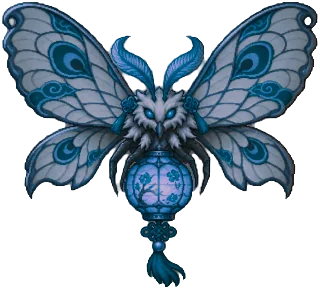
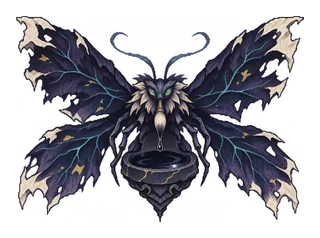
Add reviewed paper effigy, ink moth, and shrine art

diff --git a/docs/dev-log/2026-11-23-ART-002.md b/docs/dev-log/2026-11-23-ART-002.md
@@ -1,0 +1,73 @@
+# ART-002 纸人童、墨蛾和灯神龛
+
+2026-11-23 · 制作、导入与交付 Codex · 独立画审 Agent · 起点 `4a4b245`
+
+| 资源 | 原图 | 返工与复验 |
+| --- | --- | --- |
+| 纸人童 | [paper-doll.png](../../v2/art/paper-doll.png) | 初稿刀刃贴在环状纸拳上。第一次修改明确刃根与拇指的位置，复审发现左拳仍少一道折线。最终两侧都能数出四个卷指面和单独的拇指。 |
+| 墨蛾 | [ink-moth.png](../../v2/art/ink-moth.png) | 两张早稿带不透明渐变底，重新按独立透明精灵生成。竖屏第一次复验轮廓明显小于纸灯蛾，导出前收掉多余的透明空边，再补统一安全边。 |
+| 灯神龛 | [event-shrine.png](../../v2/art/event-shrine.png) | 木龛初稿只有破红带。补贴柱旧纸和残墨后，实机发现龛脚像悬空，又补灰青石墙边与托沿。 |
+
+- 三张 PNG 最终稿与压缩 WebP 进同一个提交。美术审计据 [导出清单](../../v2/art/exports.json) 中母图与 WebP 哈希将三件标为 `ok`。
+- `npm run assets -- paper-doll ink-moth event-shrine` 后运行 `node scripts/art-audit.mjs`。墨蛾的裁边只用于运行导出，母图保留。
+- `npm test` 的 52 项用例全部通过，`npm run build:offline` 生成 4.72 MB 单页。三种指定遭遇均完成浏览器截图，六次取样没有页面错误。
+- 回归在独立工作树执行。目标是实际资源加载、落点与 HUD 遮挡，玩法数值和事件条件沿用远端。UI-001、GAME-001 已由 Claude 在台账认领。
+- [独立画审和实机图](media/ART-002/独立画审.md) 使用指定遭遇检查画面，覆盖桌面和触屏模拟。实体移动端与自然刷新的出现频率未验证。
+
+## 生成提示
+
+使用内置 ImageGen。以下为创建与返工的提示原文。
+
+### paper-doll
+
+```text
+A single transparent full-body enemy sprite for an original dark Chinese zhiguai wuxia pixel art dungeon crawler. A small handmade supernatural paper effigy, unmistakably an inanimate funerary paper puppet brought to life, floats with feet slightly apart, Qixi cut-paper workshop: white mulberry paper face, painted ink-dot eyes, stiff painted crescent mouth, two circular cinnabar blush dots. Crimson paper jacket and short trousers, folded rigid faceted silhouette and scalloped punched paper cuffs. A busted patch at one elbow visibly exposes two thin brown bamboo laths holding the puppet body together. Both small mitten-paper hands clasp simple flat red folded paper blade wedges, point these safely outward (not aimed at a real person). Small origami shoes, subtle crooked paper braid. Compact straight-on first-person encounter camera, upper-left warm lantern edge light, dark teal shadows; readable distinct outline at 100 px. Premium crisp 32-bit game pixel art, hand-placed stair-step clusters and paper grain only inside shapes, matte. Float independently, entire lantern-red miniature effigy and both paper blades visible, 8 percent alpha clearance in every direction. Transparent RGBA background, no scenery, no platform, no text, no lettering, no captions, no human flesh, no gore, no extra limbs.
+```
+
+### ink-moth
+
+```text
+Single full isolated game pixel-art monster on transparent alpha for an original Chinese dark-fantasy dungeon crawler. A giant ink moth facing directly forward, all four spread wings must read as ink-soaked xuan paper, with large almost-black ink washes and controlled jagged torn fiber tips. Rich layered deep indigo, charcoal and wet teal crackle veining, rare flecks of antique gold and muted pale paper on rim; absolutely no orange or lamp frames. Abdomen is an integrated small heavy dark ceramic inkstone with concave bowl, hard blue-gray shell and dark ink at its base. A slender pointed ink-brush mouthpart with one heavy droplet, two distinct long near-black antennae. Broad intimidating asymmetrical night moth silhouette, spotted low inner rim and complete tips. Design shape should immediately contrast against a pale lantern moth specimen; distinguish wings from abyss with cool jade-blue rim from the right, soft amber light upper left on raised ink stone. Sharply stepped crisp premium 32-bit hand-placed pixel clusters, authentic painterly pixel detail with hard contrast, no smudgy glow. Symmetric enough for source center but wing damage differs on each. Entire wings and legs fit with 8 percent alpha margin. Clean transparency only, no floor, no scenery, no text, no card panel.
+```
+
+### event-shrine
+
+```text
+One original transparent 2D pixel-art environment prop for a Chinese dark-fantasy wuxia dungeon crawler. Isolated compact antique village lampspirit altar, intended to fit into a stone wall alcove. Three-quarter head-on first-person perspective with shallow wood depth. Carved old red-brown wooden frame, tiny roof with two upturned eaves, lintel with simple cloud carving, two tiny dark red fabric tassels. Open shallow cavity lit warm amber by a very small brass oil lamp visibly distinct at center-left. Inside the little alcove is a palm-sized painted stone statuette of a serene elderly lamp keeper with robes holding a lamp, not a living full body human. On the altar lip a round bronze incense cup and four square-holed copper coins, in miniature. Two little shredded red paper ribbons down wood sides, with solely weathering marks and no legible writing. Cold cyan side shadow, subtle flashes of gilded details. Premium 32-bit sharp hand-placed pixel-art clusters, matte lacquer and patinated brass, excellent silhouette at 150px, no gradients outside silhouette. Complete treasure shrine encased in cutout transparent PNG, approximately squat and stable, eight percent clearance around, no stone wall, no separate ground, no lettering, no UI borders.
+```
+
+### 墨蛾去底试稿
+
+```text
+Edit the attached moth sprite for use as a game cutout. Preserve the exact creature painting: deep indigo torn wings, cool teal fibers, dark ceramic ink-bowl abdomen, brush mouth and its droplet, yellow and pale streaks, two dark antennae. Delete absolutely all background and all vignetting, no dim gray, brown, black, or teal scene remains. Make it true transparency with RGBA alpha zero behind the moth and in every wing hole. Do not add a patterned checkerboard to the actual image. Keep the complete wing tips and fine antennae, and keep true dark pixels of the moth opaque. Add a clear empty alpha margin around the subject. Preserve original crisp pixel-art silhouette and square detail. Just one detached asset on completely clear alpha, no ground, no text, no external halo.
+```
+
+### 墨蛾重新生成
+
+```text
+A square-format TRANSPARENT RGBA pixel-art game inventory cutout: one complete giant ink moth with four fully open ragged wings, facing viewer. Entire isolated silhouette fills only the middle 78 percent of a square alpha canvas; clear fully transparent margins and transparent holes between wings. Very dark navy ink-soaked mulberry-paper wing membranes with angular torn edges, ivory paper tips, thin cyan ink veins and a few dull gold flecks. The head has two simple curved smoky blue antennae and cold jade insect eyes; the abdomen is a flat dark stone ink dish fused with the exoskeleton, one glossy drop under its tapered brush mouth. Bold silhouette and matte highlights using hand-placed hard square pixel clusters like high-end 32-bit original wuxia dungeon game sprites. Clean cutout only. Nothing behind the object, no atmosphere, no ambient light wash, no vignette, no opaque colors or shadows in empty areas, no letters, no shadows on a floor. True alpha.
+```
+
+### paper-doll
+
+```text
+Edit the attached transparent game sprite, preserving all design elements, face and pixel style. Correct ONLY the two ivory folded-paper hands gripping the small red paper knives. Make each opposing thumb press clearly against the root of the red folded-paper knife and wrap the original single opposing bent index finger around its far side. Use two or three short dark panel fold seams to separate the curled paper finger ends below. Each blade begins between thumb and fingers, never pasted onto a white hole. The wrists remain visibly connected to the cuffs. Show a simple believable closed paper grip with one thumb and four fingers per hand with naturally overlapping folds, no extra skin fingers, no rings, no mitten holes. Keep everything else including original jacket, both blades, feet, face and all alpha margins. Alpha background totally clear, no ground, full isolated sprite.
+```
+
+### event-shrine
+
+```text
+Edit only the two vertical plain red paper strips pinned flat to the two sides of the depicted Chinese village lamp shrine. Replace those pieces with narrow weathered faded vermilion paper couplets visibly affixed to the outer two wooden pillars; each has very sparse black ink traces and almost-erased vertical brushstroke fragments, with tiny areas of age tears. Ancient printed paper laid flat with a curling edge, not dangling strips of silk. Keep original shrine color, carved roof, carvings, lamps, statuette, bowl, coins, pixel art style, camera and silhouette, all else unchanged. Full isolated transparent RGBA sprite, no vignette, no floor, no backdrop.
+```
+
+### 纸人童左拳终稿
+
+```text
+Surgical final polish to the attached original pixel paper effigy sprite on transparent alpha. Correct ONE location only, the closed fist on the VIEWER'S LEFT edge of the picture. Its curled finger ends must be EXACTLY FOUR distinct small pale folded-paper panels below the existing single visible thumb, with exactly three dark seams splitting those four panels. Use the pictured fist on VIEWER'S RIGHT as an anatomical reference mirrored, but fit the same current wrist and blade. The thumb still presses down over the red paper blade root. Keep the palms connected to the cuffs. No rings. Do not alter the viewer-right hand, the pose, the face, the clothing, the weapons, the feet, or the high fidelity hand-clustered square-pixel style. Real transparent background and intact entire sprite.
+```
+
+### 灯神龛石托终稿
+
+```text
+Technical composition edit to the attached transparent pixel art shrine prop: make this same lacquered wooden shrine visibly mounted into a fragment of rough dark gray-blue masonry, by adding only (1) a low grounded blue-gray stone sill under both wooden feet and (2) a few irregular interlocking masonry stones immediately behind the post edges, to read as a shallow wall niche. The sill rectangular horizontal perspective has dark thick stepped sides and a subtle amber reflection under the oil lamp. Masonry support must remain part of the single isolated cutout, not a full backdrop or square frame; allow clean transparent air on every side, occupy less than 12 percent of total image. Preserve the existing aged red vertical couplets, gilded wavy trim, little god, dishes, lamps and coins, wood painting and tight 32-bit square-pixel detail. Entire detached object centered with true RGBA transparent background, no scenery, no floor behind object, no new text, no cut edges.
+```

diff --git a/docs/dev-log/media/ART-002/独立画审.md b/docs/dev-log/media/ART-002/独立画审.md
@@ -1,0 +1,11 @@
+# ART-002 独立画审
+
+**纸人童、墨蛾、灯神龛通过本轮美术验收。** 390 宽时，纸人童的双刃、墨蛾的砚腹、神龛的灯火都能从剪影中辨认。三张游戏贴图的实际请求字节与导出清单相符。[同机位占位与终稿](三件占位与终稿.jpg) · [实测记录](实测记录.json)
+
+| 资源 | 从母图到实机的复核 |
+| --- | --- |
+| 纸人童 | 纸脸中折、胭脂点、袖口剪孔及右袖破口中的竹篾，把纸扎材质交代清楚。初稿的握处像单个白环，第二稿画面左拳少一道分指折痕。终稿两拳各有四块可数的卷指，加上一根单独的拇指压住红纸刀根。两刀顺着夹握角度向外伸，尖端完整。390 战斗画面可读出双刃与「纸刃」连击意图；逐指数目在原图放大后复核。[初稿双手](纸人初稿双手.jpg) · [终稿双手](纸人终稿双手.jpg) · [1280 原屏](1280/paper-doll.jpg) · [390 原屏](390/paper-doll.jpg) |
+| 墨蛾 | 在暖亮底和游戏暗底上分别检查透明轮廓，四片撕裂纸翼留有透空，深蓝墨脉与飞白、洒金相配。笔锋正对腹部砚池。初次方形导出在上下空了约 63 像素，390 宽时，蛾的实心轮廓只有约 128×92。终稿收边至 320×238，实机约 183×130，与纸灯蛾体量相近，砚口及双翼轮廓更清楚。黑墨滴在手机上很小，吐墨意图和数值仍可读。[1280 原屏](1280/ink-moth.jpg) · [390 原屏](390/ink-moth.jpg) |
+| 灯神龛 | 候选的两片红带已换成贴柱残墨对联，终稿在木框两侧和双脚下面补入灰石。左边油灯、右边捧灯老人、前方香炉与供钱有前后层次。最细的旧墨与钱孔须放大看，手机上主光源和神像仍能分辨。石唇托住木脚，作为事件插图可以成立；背景仍采用通用街景，墙面没有延伸到整个场景。两种尺寸的供奉选项都完整可读。[1280 原屏](1280/oilshrine.jpg) · [390 原屏](390/oilshrine.jpg) |
+
+**验证方式。** 在独立工作树开发入口 `127.0.0.1:5178` 进入镇灯铺、进塔，再用项目的开发预览指定第一层纸人童、第二层墨蛾和灯神龛事件。两种视口为 Chromium 桌面 1280×720、触屏仿真 390×844。归档为六张实际游戏原屏，以及从透明母图裁出的握刃局部；采样期间未记录到页面异常。本轮未测实体手机、Safari 或正常游玩中的随机遇见概率。

diff --git a/v2/docs/美术需求.md b/v2/docs/美术需求.md
@@ -9,8 +9,8 @@
 
 | 类别 | 数量 | 现状 | 优先级 |
 | --- | --- | --- | --- |
-| 新敌怪（含两只备选守关妖） | 13 只（堕道者另需 2 个姿态，堕道首座同） | 引魂灯、水鬼已替换，其余待补 | **P0** |
-| 新事件场景物件 | 7 张（传送阵可不画） | 灯鼠货郎已替换，其余待补 | **P0** |
+| 新敌怪（含两只备选守关妖） | 13 只（堕道者另需 2 个姿态，堕道首座同） | 引魂灯、水鬼、纸人童、墨蛾已替换，其余待补 | **P0** |
+| 新事件场景物件 | 7 张（传送阵可不画） | 灯鼠货郎和灯神龛已替换，其余待补 | **P0** |
 | 卡牌插图 | 49 张 | 没有专用图，现在用物品图标凑，很多牌共用同一张 | **P1** |
 | 法宝图标 | 13 张 | 借用货物图标，和货物、卡牌撞图 | **P1** |
 | 委托人立绘 | 4 张 | 灯匠、阿蘅、书院先生、镇长现在借用道友、血客、主角的图 | **P1** |
@@ -50,9 +50,9 @@
 | 文件名 | 名字 | 出现 | 现在的占位 | 可选姿态 |
 | --- | --- | --- | --- | --- |
 | `lantern-spirit` | 引魂灯 | 第一层 | 已替换 | — |
-| `paper-doll` | 纸人童 | 第一层 | 血客褪色 | — |
+| `paper-doll` | 纸人童 | 第一层 | 已替换 | — |
 | `fire-rat` | 火鼠 | 第二层 | 灯鼠染红 | 扑击时现在借用灯鼠的挥爪图 |
-| `ink-moth` | 墨蛾 | 第二、三层 | 纸灯蛾染墨色 | — |
+| `ink-moth` | 墨蛾 | 第二、三层 | 已替换 | — |
 | `water-ghost` | 水鬼 | 第二层 | 已替换 | — |
 | `stele-spirit` | 碑灵 | 第二层 | 旧墨碑 | — |
 | `fallen` / `fallen-strike` / `fallen-guard` | 堕道者 | 第二、三层精英 | 旧斩妖人三张姿态图 | 出刀、架势两张都需要 |
@@ -118,7 +118,7 @@
 | `fake-fox` | 可疑的白狐摊 | 旧白狐商 | 与上面「假狐商」同一张图 |
 | `event-cart` | 翻倒的货车 | 旧押运货车 | 一辆翻倒的货车 |
 | `event-hunter` | 受伤的斩妖人 | 旧斩妖人架势图 | 靠墙坐着的受伤同行 |
-| `event-shrine` | 灯神龛 | 旧描金盒 | 嵌在墙里的小灯神龛 |
+| `event-shrine` | 灯神龛 | 已替换 | 嵌在墙里的小灯神龛 |
 | `event-pool` | 照影池 | 旧水洼 | 地上一洼镜子般的水 |
 
 ### 传送阵 `portal`（可选）

diff --git a/docs/协作任务.md b/docs/协作任务.md
@@ -6,7 +6,7 @@
 | --- | --- | --- | --- | --- | --- | --- |
 | OPS-001 | P0 | 启动协作规范、认领和日志 | Codex · `codex/art-coordination` | 已合入 | 根 `AGENTS.md`、`docs/Agent协作规范.md`、本页、`docs/dev-log/` | [启动记录](dev-log/2026-11-23-协作启动.md) |
 | ART-001 | P0 | 归档首批引魂灯、水鬼和灯鼠货郎 | Codex／独立画审 · `codex/art-coordination` | 已合入 | 资源 `lantern-spirit`、`water-ghost`、`event-peddler`；`v2/art/exports.json`、`v2/scripts/{prepare-assets,art-audit}.mjs`、美术清单；`v2/src/ui/Combat.tsx` 与 `v2/src/styles/main.css` 的水鬼独立样式 | [本批日志与证据](dev-log/2026-11-23-ART-001.md) |
-| ART-002 | P0 | 生产纸人童、墨蛾和灯神龛 | Codex／评审待安排 · `codex/art-coordination` | 进行中 | `paper-doll`、`ink-moth`、`event-shrine` 的 PNG 与 WebP，导出清单和本批日志 | 成品透明与尺寸核验，桌面、390 宽实机，独立画审 |
+| ART-002 | P0 | 生产纸人童、墨蛾和灯神龛 | Codex／独立画审 · `codex/art-coordination` | 已合入 | `paper-doll`、`ink-moth`、`event-shrine` 的 PNG 与 WebP，`v2/scripts/prepare-assets.mjs`、导出清单、美术需求和本批日志 | [本批日志与证据](dev-log/2026-11-23-ART-002.md) |
 | ART-003 | P0 | 火鼠与扑击、碑灵和翻倒货车 | 待认领 | 待认领 | `fire-rat`、`fire-rat-attack`、`stele-spirit`、`event-cart` | 签明姿态和落点，角色需和原灯鼠、旧碑区分 |
 | ART-004 | P0 | 堕道者和堕道首座三姿态 | 待认领 | 待认领 | `fallen*` 两个角色族对应的 PNG、WebP | 验待机、出招、架势，确保角色一致 |
 | ART-005 | P0 | P0 其余敌人与事件 | 待认领 | 待认领 | 认领时按 [美术需求](../v2/docs/美术需求.md) 拆成具体资源 ID | 分批追踪，先同步范围 |

diff --git a/docs/dev-log/README.md b/docs/dev-log/README.md
@@ -6,5 +6,6 @@
 | --- | --- | --- |
 | 2026-11-23 | OPS-001 | [协作启动](2026-11-23-协作启动.md) |
 | 2026-11-23 | ART-001 | [首批美术归档](2026-11-23-ART-001.md) |
+| 2026-11-23 | ART-002 | [纸人童、墨蛾和灯神龛](2026-11-23-ART-002.md) |
 
 每份记录至少有任务 ID、负责人、起始提交、变更范围、验证命令和结果、评审与复验、交接或剩余限制。截图和录屏可按大小保存在公开证据位置。文档用仓库相对路径或可访问的链接。
